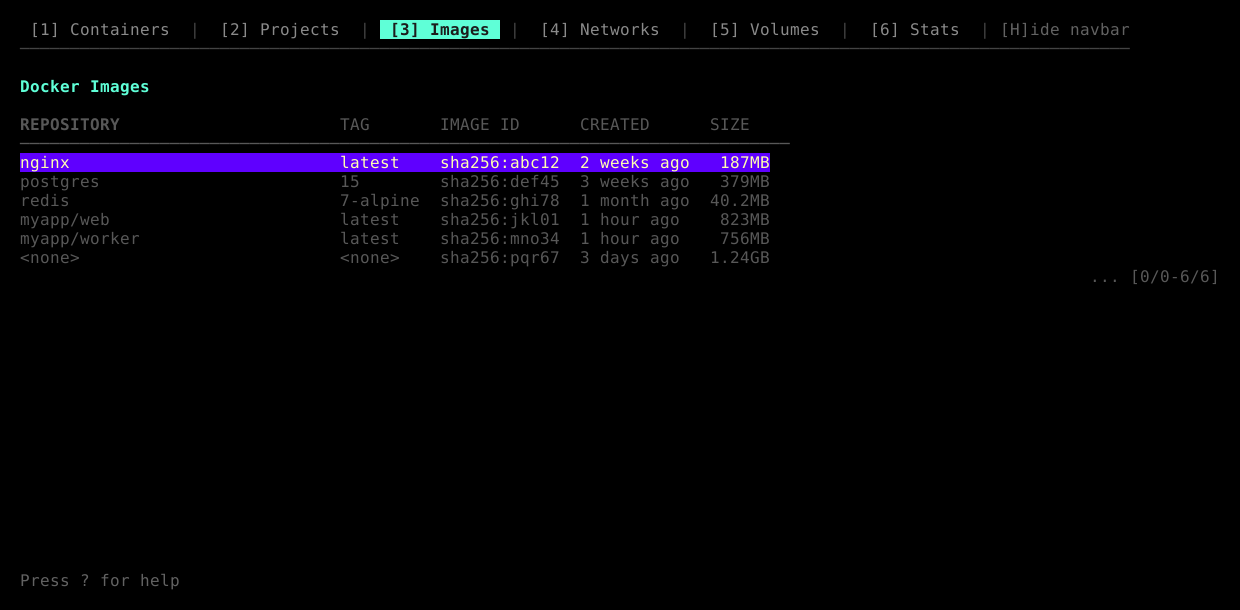
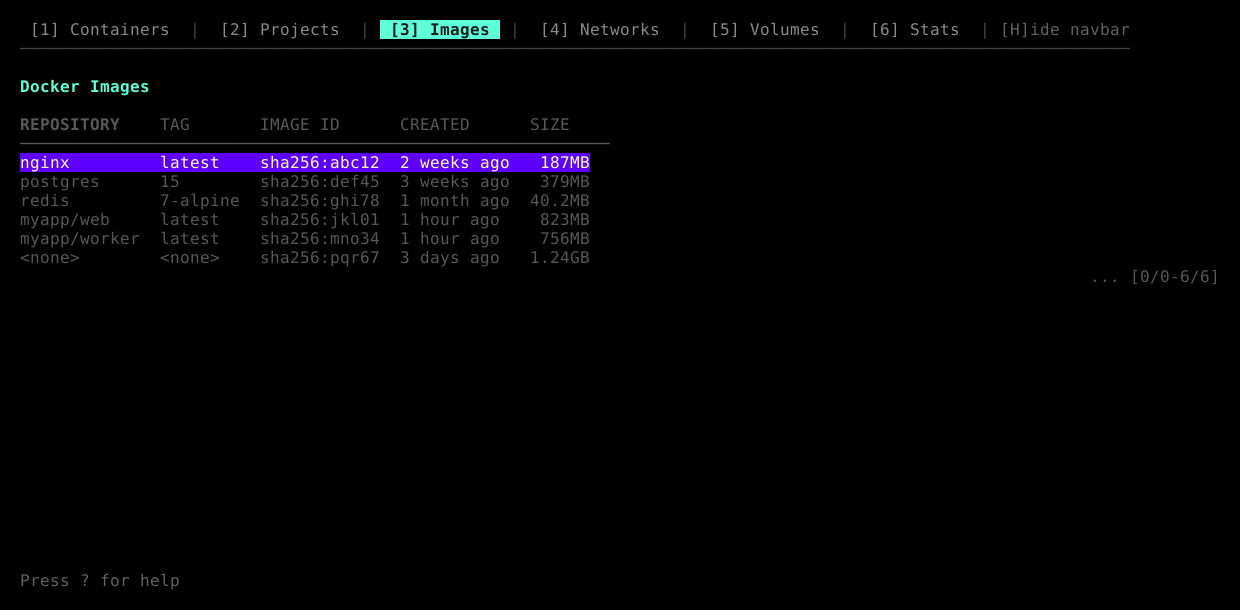
refactor: use auto-width calculation for table columns
Replace manual width calculations with -1 to delegate column width
calculation to RenderTable's adjustColumnsWidth method. This allows
tables to automatically adjust column widths based on content and
available terminal space.

Changes:
- Update table column definitions to use -1 for auto-width
- Keep fixed widths for ID columns (12 chars) and predictable content
- Remove unnecessary truncation logic since RenderTable handles it
- Update tests to match new truncation behavior

🤖 Generated with [Claude Code](https://claude.ai/code)

diff --git a/internal/ui/view_dind_process_list.go b/internal/ui/view_dind_process_list.go
@@ -83,17 +83,13 @@ func (m *DindProcessListViewModel) performSearch() {
 func (m *DindProcessListViewModel) buildRows() []table.Row {
 	rows := make([]table.Row, 0, len(m.dindContainers))
 	for i, container := range m.dindContainers {
-		// Truncate container ID
+		// Truncate container ID to standard 12 chars
 		id := container.ID
 		if len(id) > 12 {
 			id = id[:12]
 		}
 
-		// Truncate image name
 		image := container.Image
-		if len(image) > 30 {
-			image = image[:27] + "..."
-		}
 
 		state := container.State
 
@@ -105,11 +101,7 @@ func (m *DindProcessListViewModel) buildRows() []table.Row {
 			status = statusDownStyle.Render(status)
 		}
 
-		// Truncate ports if too long
 		ports := container.Ports
-		if len(ports) > 25 {
-			ports = ports[:22] + "..."
-		}
 
 		name := container.Names
 		// Highlight if this container matches search
@@ -139,12 +131,12 @@ func (m *DindProcessListViewModel) render(model *Model, availableHeight int) str
 
 	// Create table
 	columns := []table.Column{
-		{Title: "CONTAINER ID", Width: 15},
-		{Title: "IMAGE", Width: 30},
-		{Title: "STATE", Width: 10},
-		{Title: "STATUS", Width: 20},
-		{Title: "PORTS", Width: 25},
-		{Title: "NAMES", Width: 25},
+		{Title: "CONTAINER ID", Width: 12}, // Fixed width for container ID
+		{Title: "IMAGE", Width: -1},
+		{Title: "STATE", Width: -1},
+		{Title: "STATUS", Width: -1},
+		{Title: "PORTS", Width: -1},
+		{Title: "NAMES", Width: -1},
 	}
 
 	// Reduce available height if search info will be displayed

diff --git a/internal/ui/view_network_list.go b/internal/ui/view_network_list.go
@@ -72,19 +72,12 @@ func (m *NetworkListViewModel) render(model *Model, availableHeight int) string 
 	}
 
 	// Create table columns
-	sideMargin := 2 * 2  // 2 for left and right padding
-	cellMargin := 2      // 2 for cell margin
-	networkIDWidth := 12 // Fixed width for network ID
-	driverWidth := 7
-	scopeWidth := 10
-	containersWidth := 10
-	widthPerColumn := (model.width - networkIDWidth - driverWidth - scopeWidth - containersWidth - cellMargin*4 - sideMargin) / 1
 	columns := []table.Column{
-		{Title: "NETWORK ID", Width: 12},
-		{Title: "NAME", Width: widthPerColumn},
-		{Title: "DRIVER", Width: driverWidth},
-		{Title: "SCOPE", Width: scopeWidth},
-		{Title: "CONTAINERS", Width: containersWidth},
+		{Title: "NETWORK ID", Width: 12}, // Fixed width for network ID
+		{Title: "NAME", Width: -1},
+		{Title: "DRIVER", Width: -1},
+		{Title: "SCOPE", Width: -1},
+		{Title: "CONTAINERS", Width: 10}, // Fixed width for count
 	}
 
 	return m.RenderTable(model, columns, availableHeight, func(row, col int) lipgloss.Style {

diff --git a/internal/ui/view_image_list.go b/internal/ui/view_image_list.go
@@ -65,17 +65,11 @@ func (m *ImageListViewModel) render(model *Model, availableHeight int) string {
 		return s.String()
 	}
 
-	availableWidth := model.width - 10 // margin
-	repoWidth := 30
-	if availableWidth < 100 {
-		repoWidth = 20
-	}
-
 	// Create columns
 	columns := []table.Column{
-		{Title: "REPOSITORY", Width: repoWidth},
+		{Title: "REPOSITORY", Width: -1},
 		{Title: "TAG", Width: -1},
-		{Title: "IMAGE ID", Width: 12},
+		{Title: "IMAGE ID", Width: 12}, // Fixed width for consistent ID display
 		{Title: "CREATED", Width: -1},
 		{Title: "SIZE", Width: -1},
 	}

diff --git a/internal/ui/view_file_browser.go b/internal/ui/view_file_browser.go
@@ -78,9 +78,9 @@ func (m *FileBrowserViewModel) render(model *Model, availableHeight int) string 
 
 	// Create table
 	columns := []table.Column{
-		{Title: "PERMISSIONS", Width: 15},
-		{Title: "SIZE", Width: 10},
-		{Title: "NAME", Width: model.width - 30},
+		{Title: "PERMISSIONS", Width: 15}, // Fixed width for permissions display
+		{Title: "SIZE", Width: 10},        // Fixed width for size display
+		{Title: "NAME", Width: -1},
 	}
 
 	return m.RenderTable(model, columns, availableHeight, func(row, col int) lipgloss.Style {

diff --git a/internal/ui/view_help.go b/internal/ui/view_help.go
@@ -16,9 +16,9 @@ type HelpViewModel struct {
 func (m *HelpViewModel) render(model *Model, availableHeight int) string {
 	// Create columns
 	columns := []table.Column{
-		{Title: "Key", Width: 15},
-		{Title: "Command", Width: 30},
-		{Title: "Description", Width: 40},
+		{Title: "Key", Width: 15}, // Fixed width for keys
+		{Title: "Command", Width: -1},
+		{Title: "Description", Width: -1},
 	}
 
 	return m.RenderTable(model, columns, availableHeight-2, func(row, col int) lipgloss.Style {

diff --git a/internal/ui/view_volume_list.go b/internal/ui/view_volume_list.go
@@ -52,9 +52,9 @@ func (m *VolumeListViewModel) render(model *Model, availableHeight int) string {
 
 	// Create table columns
 	columns := []table.Column{
-		{Title: "Name", Width: 40},
-		{Title: "Driver", Width: 10},
-		{Title: "Scope", Width: 10},
+		{Title: "Name", Width: -1},
+		{Title: "Driver", Width: -1},
+		{Title: "Scope", Width: -1},
 	}
 
 	return m.RenderTable(model, columns, availableHeight, func(row, col int) lipgloss.Style {

diff --git a/internal/ui/view_docker_container_list.go b/internal/ui/view_docker_container_list.go
@@ -122,7 +122,6 @@ func (m *DockerContainerListViewModel) buildRows() []table.Row {
 			id = id[:12]
 		}
 
-		// Truncate image name
 		image := container.Image
 
 		state := container.State
@@ -130,7 +129,6 @@ func (m *DockerContainerListViewModel) buildRows() []table.Row {
 		// Status with color
 		status := container.Status
 
-		// Truncate ports
 		ports := container.Ports
 
 		name := container.Names

diff --git a/internal/ui/view_compose_project_list.go b/internal/ui/view_compose_project_list.go
@@ -56,11 +56,7 @@ func (m *ComposeProjectListViewModel) buildRows() []table.Row {
 		}
 		status += ResetAll
 
-		// Truncate config files if too long
 		configFiles := project.ConfigFiles
-		if len(configFiles) > 50 {
-			configFiles = configFiles[:47] + "..."
-		}
 
 		rows = append(rows, table.Row{project.Name, status, configFiles})
 	}

diff --git a/internal/ui/view_compose_project_list_test.go b/internal/ui/view_compose_project_list_test.go
@@ -83,7 +83,7 @@ func TestComposeProjectListViewModel_Rendering(t *testing.T) {
 				TableViewModel: TableViewModel{Cursor: 0},
 			},
 			height:   20,
-			expected: []string{"/very/long/path/that/should/be/truncated/in/the..."},
+			expected: []string{"/very/long/path/that/should/be/truncated/in/the"},
 		},
 	}
 

diff --git a/internal/ui/view_image_list_test.go b/internal/ui/view_image_list_test.go
@@ -79,7 +79,7 @@ func TestImageListViewModel_Rendering(t *testing.T) {
 				},
 			},
 			height:   20,
-			expected: []string{"very-long-repositor…"},
+			expected: []string{"very-long-repository-name"},
 		},
 		{
 			name: "shows <none> for empty repository",
